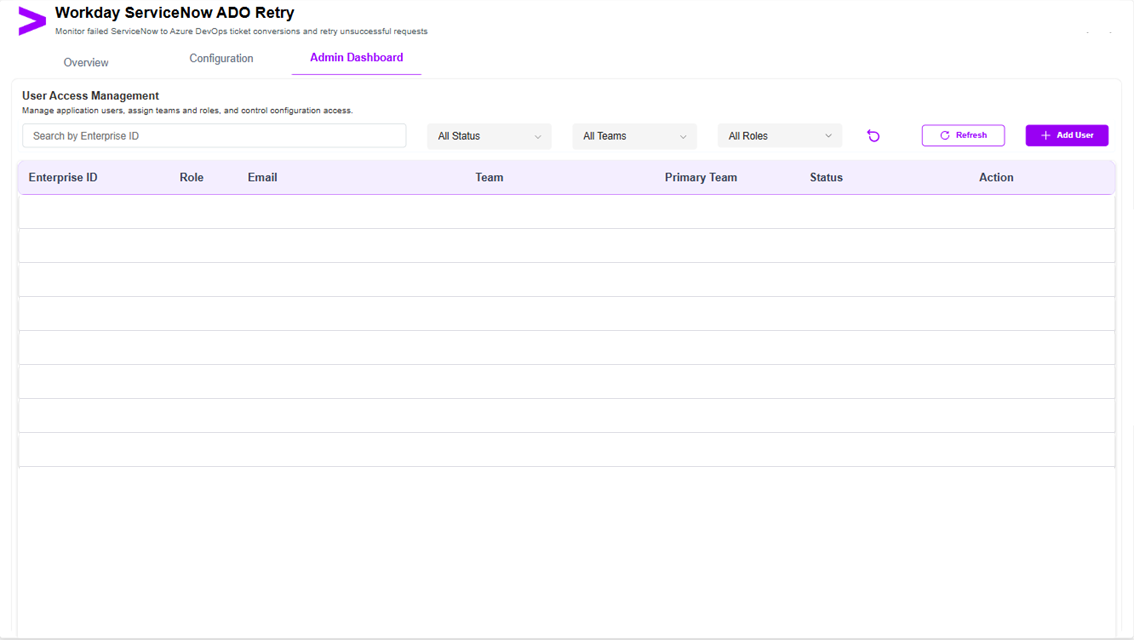
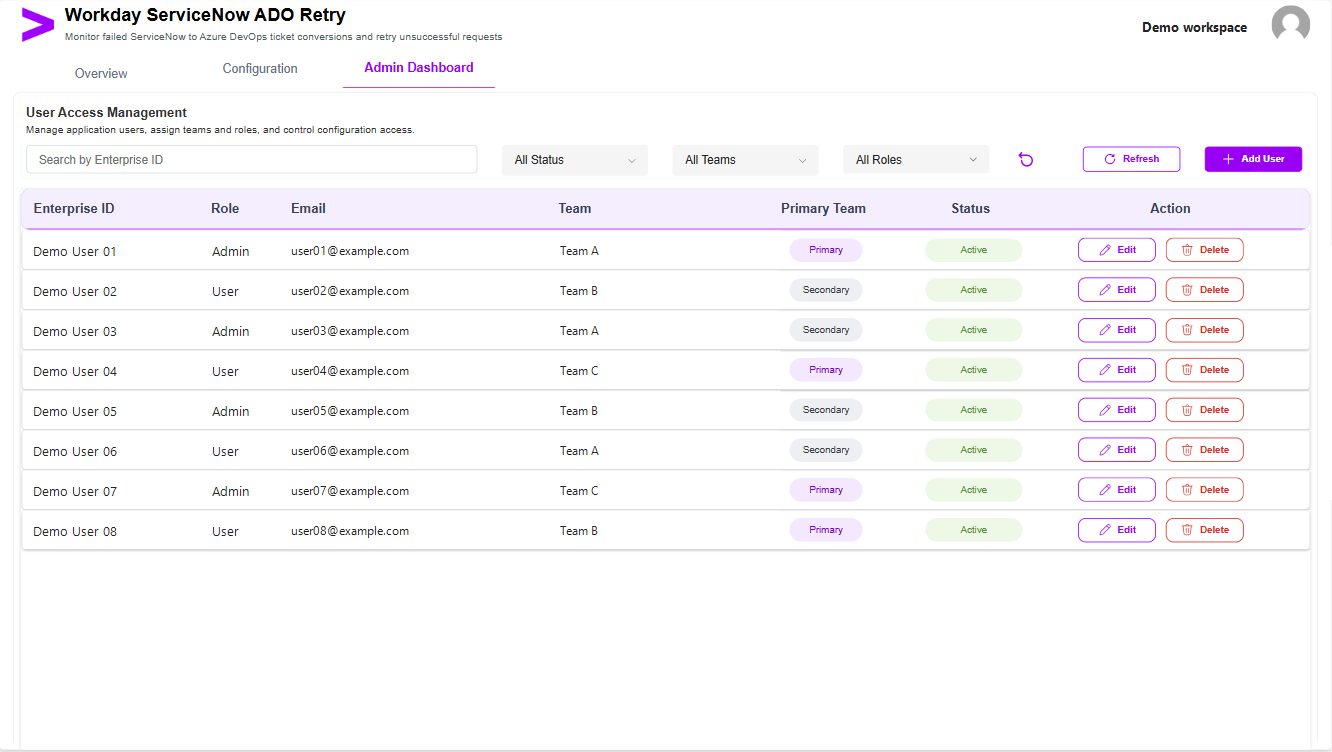
Refresh portfolio screenshots with anonymized source captures

diff --git a/lib/projects.ts b/lib/projects.ts
@@ -41,17 +41,17 @@ export const projects: Project[] = [
     summary: "A centralized Canvas App experience for tracking access credential rotation and compliance activities.",
     cardSolution: "App development and reporting support connected records, date validation, audit history and automated reminders.",
     role: "Power Platform development and reporting support",
-    presentationNote: "Screenshots retain their original layout; personal and record-level details are omitted from the public copies.",
+    presentationNote: "Screenshots retain their supplied layouts with synthetic record examples and neutral profile labels; dashboard totals remain point-in-time examples.",
     screenshots: [{
       src: "/projects/pam-compliance-overview-redacted.png",
-      alt: "Compliance Portal overview with summary cards, charts, and a table with its record values omitted.",
+      alt: "Compliance Portal overview with summary cards, charts and a table of synthetic example records.",
       width: 1329,
       height: 755,
       caption: "PAM and CIO Compliance overview dashboard.",
       privacyMask: true
     }, {
       src: "/projects/pam-credential-rotation-redacted.png",
-      alt: "Credential Rotation screen with summary cards, filters, and record values omitted.",
+      alt: "Credential Rotation screen with summary cards, filters and synthetic example records.",
       width: 1335,
       height: 753,
       caption: "Credential Rotation list and summary cards.",
@@ -64,7 +64,7 @@ export const projects: Project[] = [
       caption: "New credential rotation form, shown as supplied."
     }, {
       src: "/projects/pam-compliance-activities-redacted.png",
-      alt: "Compliance Activities screen with summary cards, filters, and record values omitted.",
+      alt: "Compliance Activities screen with summary cards, filters and synthetic example records.",
       width: 1334,
       height: 751,
       caption: "Compliance Activities list and status fields.",
@@ -100,7 +100,7 @@ export const projects: Project[] = [
       "Make the reason, actor and timestamp available with each tracked date change",
       "Label recreated previews that use synthetic data"
     ],
-    outcome: "The case study describes documented contributions without claiming deployment, adoption or business impact. Its original Power Apps screenshot is shown as supplied."
+    outcome: "The case study describes documented contributions without claiming deployment, adoption or business impact. Screenshots preserve the original interface styling while using synthetic record examples."
   },
   {
     slug: "health-compliance-analytics",
@@ -153,12 +153,12 @@ export const projects: Project[] = [
     summary: "A Power BI dashboard for exploring application usage across sessions, screens, users and time.",
     cardSolution: "The work covered dashboard design, DAX calculations and report validation; public example records are synthetic.",
     role: "Power BI dashboard design and DAX/report validation",
-    presentationNote: "Personal user-level details are omitted from the overview; the focused hourly chart is shown as supplied.",
+    presentationNote: "The overview keeps the supplied report layout with synthetic user and screen labels; KPI figures remain snapshot examples. The focused hourly chart is shown as supplied.",
     screenshots: [{
       src: "/projects/user-activity-dashboard-redacted.png",
-      alt: "AIS Console usage analytics report with KPI cards, activity charts, and user-level values omitted.",
-      width: 1135,
-      height: 884,
+      alt: "Application usage report with KPI cards, activity charts and synthetic user-level examples.",
+      width: 1007,
+      height: 785,
       caption: "Usage analytics overview.",
       privacyMask: true
     }, {
@@ -295,16 +295,16 @@ export const projects: Project[] = [
     theme: "violet",
     screenshots: [{
       src: "/projects/hypercare-query-form-redacted.png",
-      alt: "Hypercare support app with a query submission form and an empty recent-query panel.",
+      alt: "Hypercare support app with a query form, synthetic recent-query examples and neutral submitter avatars.",
       width: 1338,
       height: 751,
       caption: "Raise New Query form and Recent Queries panel.",
       privacyMask: true
     }, {
       src: "/projects/hypercare-query-overview-redacted.png",
-      alt: "Hypercare query overview with filters and a tracking table whose ticket-level values are omitted.",
-      width: 1134,
-      height: 640,
+      alt: "Hypercare query overview with synthetic sample records and neutral unknown-user avatars in the Submitted and Assigned columns.",
+      width: 1338,
+      height: 756,
       caption: "Query Overview filters and tracking table.",
       privacyMask: true
     }],
@@ -346,16 +346,16 @@ export const projects: Project[] = [
     theme: "blue",
     screenshots: [{
       src: "/projects/hypercare-operations-dashboard-redacted.png",
-      alt: "Hypercare operations report with ticket KPI cards, category and team summaries, trend chart and record values omitted.",
-      width: 1134,
-      height: 1090,
+      alt: "Hypercare operations report with ticket KPI cards, category and team summaries, a trend chart and synthetic detail rows.",
+      width: 803,
+      height: 772,
       caption: "Operations dashboard with ticket KPIs, trends and team summaries.",
       privacyMask: true
     }, {
       src: "/projects/hypercare-team-activity-redacted.png",
-      alt: "OPS team activity report with rota and workload measures; employee names are not shown.",
-      width: 1134,
-      height: 530,
+      alt: "OPS team activity report with rota and workload measures and anonymized team-member labels.",
+      width: 1242,
+      height: 581,
       caption: "OPS Team Activity view.",
       privacyMask: true
     }, {
@@ -420,14 +420,14 @@ export const projects: Project[] = [
     }, {
       src: "/projects/workday-add-users.png",
       alt: "Add Users form with empty fields and no user records.",
-      width: 1134,
-      height: 638,
+      width: 1334,
+      height: 750,
       caption: "Add Users form with an empty user list."
     }, {
       src: "/projects/workday-access-management-redacted.png",
       alt: "Workday ADO Retry access-management screen with user, email and team records omitted.",
-      width: 1134,
-      height: 640,
+      width: 1332,
+      height: 752,
       caption: "Admin Dashboard with user-record values omitted.",
       privacyMask: true
     }],
